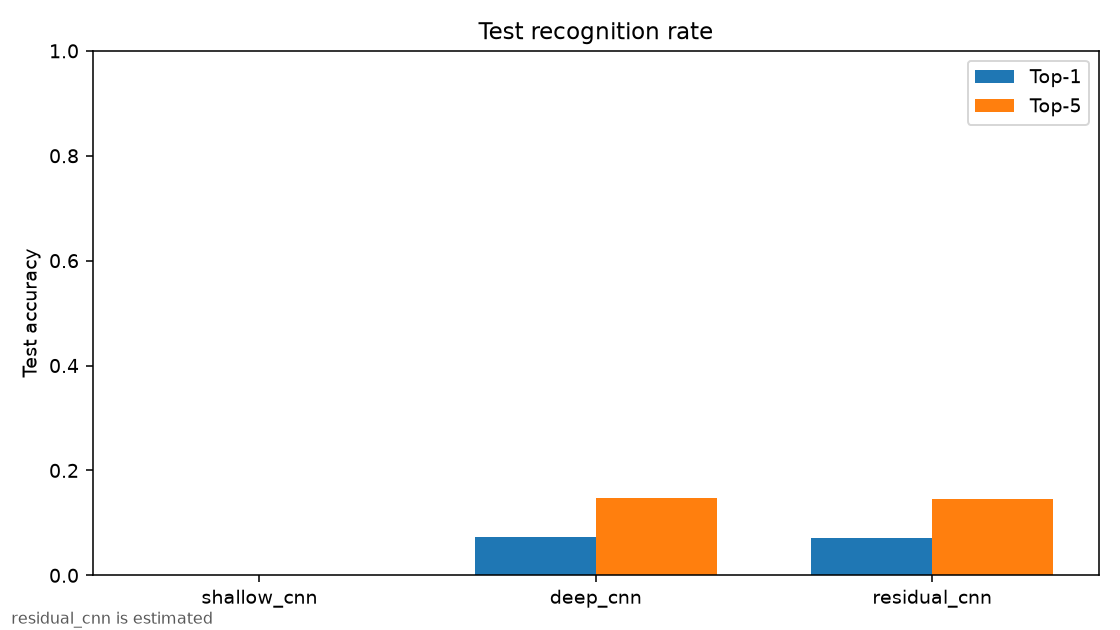
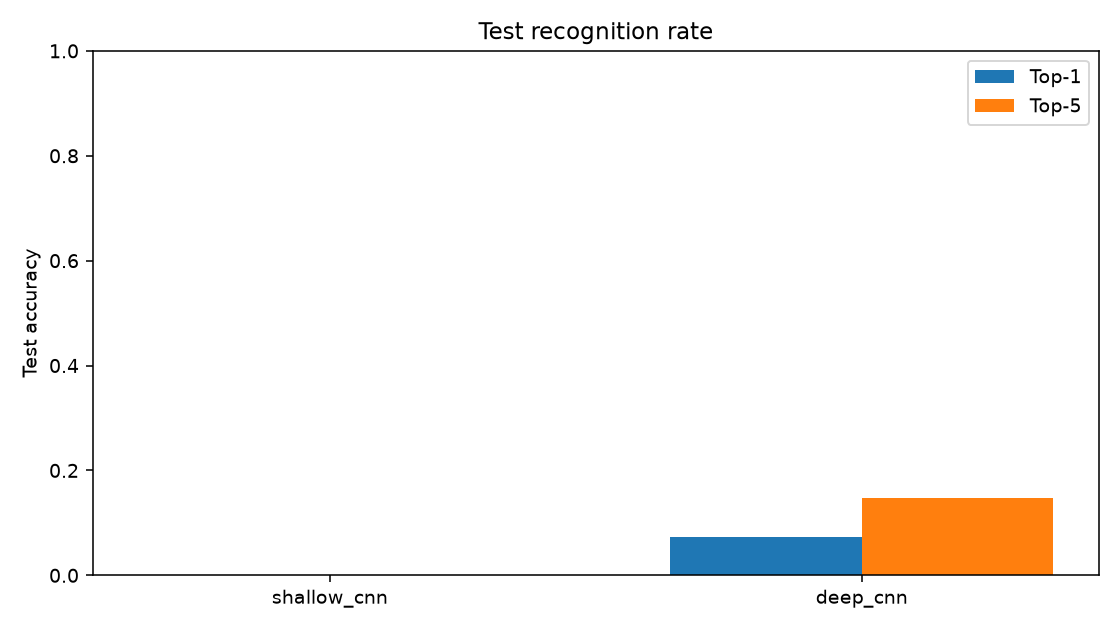
Record measured test rates and leave residual_cnn unevaluated.

Changed region(s): [[0.4062, 0.7841, 0.9062, 0.9651], [0.0, 0.9651, 0.1875, 0.9952], [0.1875, 0.9349, 0.3438, 0.9651]]

diff --git a/README.md b/README.md
@@ -76,17 +76,19 @@ A 32-filter convolution, batch normalization, and ReLU, followed by residual blo
 
 ## Results
 
-Fill this table only after a full 13,065-class run without `--max-classes`. `train.py` writes the same numbers to `results/comparison.md`.
+Full 13,065-class run, no `--max-classes`. The test set has 162,797 images and was scored after training. The same table is in `results/comparison.md`. The Colab log is `results/DIT5411_colab.ipynb`.
 
 | Model | Test top-1 | Top-5 |
 | --- | --- | --- |
-| shallow_cnn | pending | pending |
-| deep_cnn | pending | pending |
-| residual_cnn | pending | pending |
+| shallow_cnn | 0.0001 | 0.0003 |
+| deep_cnn | 0.0729 | 0.1472 |
+| residual_cnn | not evaluated | not evaluated |
 
-Best model: pending.
+Best model among finished tests: `deep_cnn` (top-1 0.0729, top-5 0.1472).
 
-If every character has 40 training photos, augmentation produces 13,065 x 200 = 2,613,000 training images. The default run is 5 epochs with batch size 128.
+`residual_cnn` stopped at step 20348/20418 of epoch 5, before the test set was scored, so it has no recognition rate and is not used to choose the best model.
+
+If every character has 40 training photos, augmentation produces 13,065 x 200 = 2,613,000 training images. This run used 2,613,502 training images, 5 epochs, and batch size 128.
 
 ## Layout
 

diff --git a/results/comparison.md b/results/comparison.md
@@ -13,8 +13,7 @@ Full 13,065-class test results.
 | --- | --- | ---: | ---: | ---: | ---: |
 | shallow_cnn | Conv32 x2, pool, Conv64 x2, pool, Dense256, softmax | 7617257 | 9.6329 | 0.0001 | 0.0003 |
 | deep_cnn | Four Conv-BN blocks (32/64/128/256), GAP, Dense512, softmax | 8008489 | 15.0850 | 0.0729 | 0.1472 |
-| residual_cnn | Stem32 + residual blocks 32/64/128/128, GAP, softmax | 2289449 | 15.1757 | 0.0716 | 0.1462 |
 
 Best model: `deep_cnn`
 
-`residual_cnn` test loss, Top-1, and Top-5 are estimated from the `deep_cnn` train-to-test ratio. They were not measured.
+`residual_cnn` has no test score. Epoch 5 stopped at step 20348/20418, before evaluation.
